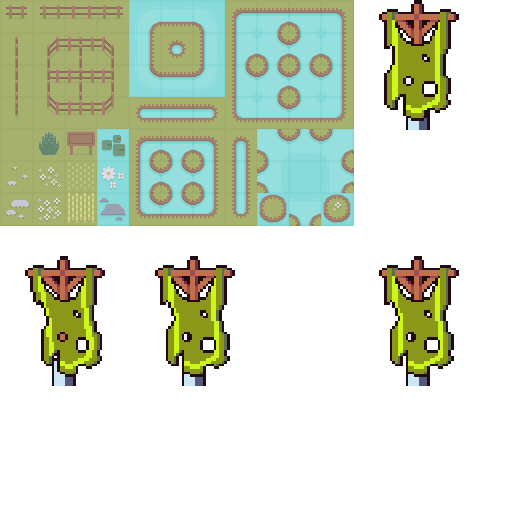
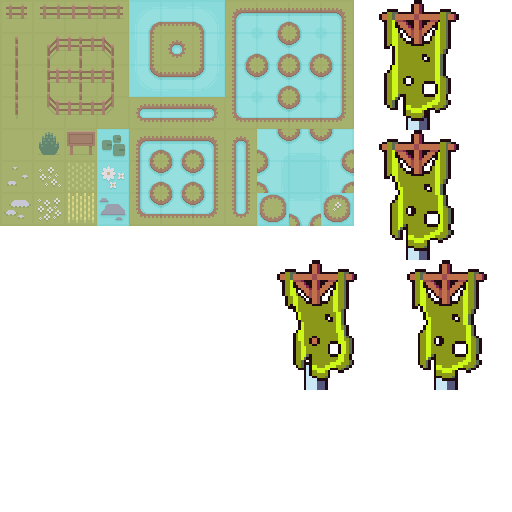
update boss move

diff --git a/scripts/c3runtime.js b/scripts/c3runtime.js
@@ -3018,6 +3018,35 @@ const map=new WeakMap;self.IBulletBehaviorInstance=class IBulletBehaviorInstance
 'use strict';{const C3=self.C3;C3.Behaviors.Bullet.Exps={Speed(){return this._GetSpeed()},Acceleration(){return this._GetAcceleration()},AngleOfMotion(){return C3.toDegrees(this._GetAngleOfMotion())},DistanceTravelled(){return this._GetDistanceTravelled()},Gravity(){return this._GetGravity()}}};
 
 
+'use strict';{const C3=self.C3;C3.Behaviors.LOS=class LOSBehavior extends C3.SDKBehaviorBase{constructor(opts){super(opts)}Release(){super.Release()}}};
+
+
+'use strict';{const C3=self.C3;C3.Behaviors.LOS.Type=class LOSType extends C3.SDKBehaviorTypeBase{constructor(behaviorType){super(behaviorType);this._obstacleTypes=[]}Release(){C3.clearArray(this._obstacleTypes);super.Release()}OnCreate(){}GetObstacleTypes(){return this._obstacleTypes}FindLOSBehavior(inst){const myType=this.GetBehaviorType();for(const behInst of inst.GetBehaviorInstances())if(behInst.GetBehaviorType()===myType)return behInst.GetSdkInstance();return null}}};
+
+
+'use strict';{const C3=self.C3;const OBSTACLE_MODE=0;const RANGE=1;const CONE=2;const USE_COLLISION_CELLS=3;const MODE_SOLID=0;const collisionCandidates=[];C3.Behaviors.LOS.Instance=class LOSInstance extends C3.SDKBehaviorInstanceBase{constructor(behInst,properties){super(behInst);this._obstacleMode=0;this._range=1E4;this._cone=C3.toRadians(360);this._useCollisionCells=true;this._ray=new C3.Ray;if(properties){this._obstacleMode=properties[OBSTACLE_MODE];this._range=properties[RANGE];this._cone=C3.toRadians(properties[CONE]);
+this._useCollisionCells=properties[USE_COLLISION_CELLS]}}Release(){super.Release()}SaveToJson(){return{"r":this._range,"c":this._cone,"om":this._obstacleMode,"ucc":this._useCollisionCells,"t":this.GetSdkType().GetObstacleTypes().map(t=>t.GetSID())}}LoadFromJson(o){this._range=o["r"];this._cone=o["c"];this._obstacleMode=o["om"]||0;this._useCollisionCells=!!o["ucc"];const obstacleTypes=this.GetSdkType().GetObstacleTypes();C3.clearArray(obstacleTypes);for(const sid of o["t"]){const objectClass=this._runtime.GetObjectClassBySID(sid);
+if(objectClass)obstacleTypes.push(objectClass)}}HasLOSToInstance(inst,imgPt){const uid=inst.GetUID();const [x,y]=inst.GetImagePoint(imgPt);const hasLOS=this.HasLOSTo(x,y);return hasLOS||this._ray.hitUid===uid}HasLOSTo(x,y){const wi=this.GetWorldInfo();let angle=wi.GetAngle();if(wi.GetWidth()<0)angle+=Math.PI;return this.HasLOSBetweenPositions(wi.GetX(),wi.GetY(),angle,x,y)}HasLOSBetweenPositions(fromX,fromY,angle,toX,toY){const range=this._range;if(C3.distanceSquared(fromX,fromY,toX,toY)>range*range)return false;
+const a=C3.angleTo(fromX,fromY,toX,toY);if(C3.angleDiff(angle,a)>this._cone/2)return false;const ray=this.CastRay(fromX,fromY,toX,toY,this._useCollisionCells);return!ray.DidCollide()}_GetCollisionCandidates(ray,useCollisionCells){if(useCollisionCells){const layer=this.GetWorldInfo().GetLayer();const collisionEngine=this._runtime.GetCollisionEngine();if(this._obstacleMode===MODE_SOLID)collisionEngine.GetSolidCollisionCandidates(layer,ray.rect,collisionCandidates);else collisionEngine.GetObjectClassesCollisionCandidates(layer,
+this._GetObstacleTypes(),ray.rect,collisionCandidates);return collisionCandidates}else if(this._obstacleMode===MODE_SOLID){const solidBehavior=this._runtime.GetSolidBehavior();if(solidBehavior)return solidBehavior.GetInstances();else return collisionCandidates}else{for(const objectClass of this._GetObstacleTypes())C3.appendArray(collisionCandidates,objectClass.GetInstances());return collisionCandidates}}_GetObstacleTypes(){return this.GetSdkType().GetObstacleTypes()}CastRay(fromX,fromY,toX,toY,useCollisionCells){const ray=
+this._ray.Set(fromX,fromY,toX,toY);const candidates=this._GetCollisionCandidates(ray,useCollisionCells);const collisionEngine=this._runtime.GetCollisionEngine();const isSolidMode=this._obstacleMode===MODE_SOLID;const selfInstance=this._inst;for(let i=0,len=candidates.length;i<len;++i){const rinst=candidates[i];if(rinst===selfInstance)continue;if(!isSolidMode||collisionEngine.IsSolidCollisionAllowed(rinst,selfInstance))collisionEngine.TestRayIntersectsInstance(rinst,ray)}ray.Complete();C3.clearArray(collisionCandidates);
+return ray}GetPropertyValueByIndex(index){switch(index){case OBSTACLE_MODE:return this._obstacleMode;case RANGE:return this._range;case CONE:return C3.toDegrees(this._cone);case USE_COLLISION_CELLS:return this._useCollisionCells}}SetPropertyValueByIndex(index,value){switch(index){case OBSTACLE_MODE:this._obstacleMode=value;break;case RANGE:this._range=value;break;case CONE:this._cone=C3.toRadians(value);break;case USE_COLLISION_CELLS:this._useCollisionCells=!!value;break}}GetDebuggerProperties(){const prefix=
+"behaviors.los.properties";return[{title:"$"+this.GetBehaviorType().GetName(),properties:[{name:prefix+".range.name",value:this._range,onedit:v=>this._range=v},{name:prefix+".cone-of-view.name",value:C3.toDegrees(this._cone),onedit:v=>this._cone=C3.toRadians(v)}]}]}}};
+
+
+'use strict';{const C3=self.C3;const lToPick=new Set;const rToPick=new Set;C3.Behaviors.LOS.Cnds={HasLOSToPosition(x,y){return this.HasLOSTo(x,y)},RayIntersected(){return this._ray.DidCollide()},HasLOSBetweenPositions(fromX,fromY,fromAngle,toX,toY){return this.HasLOSBetweenPositions(fromX,fromY,C3.toRadians(fromAngle),toX,toY)},HasLOSToObject(objectClass,imgPt){if(!objectClass)return false;const currentCondition=this._runtime.GetCurrentCondition();const isOrBlock=currentCondition.GetEventBlock().IsOrBlock();
+const runtime=currentCondition.GetRuntime();const lsol=currentCondition.GetObjectClass().GetCurrentSol();const rsol=objectClass.GetCurrentSol();let linstances=lsol.GetInstances();let rinstances=rsol.GetInstances();if(lsol.IsSelectAll())C3.clearArray(lsol._GetOwnElseInstances());else if(isOrBlock)if(runtime.IsCurrentConditionFirst()&&!lsol._GetOwnElseInstances().length&&lsol._GetOwnInstances().length)linstances=lsol._GetOwnInstances();else linstances=lsol._GetOwnElseInstances();if(rsol.IsSelectAll())C3.clearArray(rsol._GetOwnElseInstances());
+else if(isOrBlock)if(runtime.IsCurrentConditionFirst()&&!rsol._GetOwnElseInstances().length&&rsol._GetOwnInstances().length)rinstances=rsol._GetOwnInstances();else rinstances=rsol._GetOwnElseInstances();const isInverted=currentCondition.IsInverted();const sdkType=this.GetSdkType();for(const linst of linstances){let pick=false;const losBeh=sdkType.FindLOSBehavior(linst);if(rinstances.length===0){if(isInverted)pick=true}else for(const rinst of rinstances)if(linst!==rinst&&C3.xor(losBeh.HasLOSToInstance(rinst,
+imgPt),isInverted)){pick=true;rToPick.add(rinst)}if(pick)lToPick.add(linst)}if(isOrBlock){if(linstances===lsol._GetOwnElseInstances())lsol.TransferElseInstancesToOwn(lToPick);else{lsol.AddElseInstances(lToPick,linstances);lsol.SetSetPicked(lToPick)}if(rinstances===rsol._GetOwnElseInstances())rsol.TransferElseInstancesToOwn(rToPick);else{rsol.AddElseInstances(rToPick,rinstances);rsol.SetSetPicked(rToPick)}}else{lsol.SetSetPicked(lToPick);rsol.SetSetPicked(rToPick)}lToPick.clear();rToPick.clear();return lsol.HasAnyInstances()}}};
+
+
+'use strict';{const C3=self.C3;C3.Behaviors.LOS.Acts={SetRange(r){this._range=r},SetCone(c){this._cone=C3.toRadians(c)},CastRay(fromX,fromY,toX,toY,useCollisionCells){this.CastRay(fromX,fromY,toX,toY,useCollisionCells)},AddObstacle(objectClass){const obstacleTypes=this.GetSdkType().GetObstacleTypes();if(obstacleTypes.includes(objectClass))return;for(const t of obstacleTypes)if(t.IsFamily()&&t.FamilyHasMember(objectClass))return;obstacleTypes.push(objectClass)},ClearObstacles(){C3.clearArray(this.GetSdkType().GetObstacleTypes())}}};
+
+
+'use strict';{const C3=self.C3;C3.Behaviors.LOS.Exps={Range(){return this._range},ConeOfView(){return C3.toDegrees(this._cone)},HitX(){const ray=this._ray;return ray.DidCollide()?ray.hitX:0},HitY(){const ray=this._ray;return ray.DidCollide()?ray.hitY:0},HitDistance(){const ray=this._ray;return ray.DidCollide()?ray.distance:0},HitUID(){const ray=this._ray;return ray.DidCollide()?ray.hitUid:-1},NormalX(length){const ray=this._ray;return ray.DidCollide()?ray.hitX+length*ray.normalX:0},NormalY(length){const ray=
+this._ray;return ray.DidCollide()?ray.hitY+length*ray.normalY:0},NormalAngle(){const ray=this._ray;return ray.DidCollide()?C3.toDegrees(ray.hitNormal):0},ReflectionX(length){const ray=this._ray;return ray.DidCollide()?ray.hitX+length*ray.reflectionX:0},ReflectionY(length){const ray=this._ray;return ray.DidCollide()?ray.hitY+length*ray.reflectionY:0},ReflectionAngle(){const ray=this._ray;return ray.DidCollide()?C3.toDegrees(Math.atan2(ray.reflectionY,ray.reflectionX)):0}}};
+
+
 
 {
 	const C3 = self.C3;
@@ -3033,16 +3062,29 @@ const map=new WeakMap;self.IBulletBehaviorInstance=class IBulletBehaviorInstance
 		C3.Plugins.progressbar,
 		C3.Behaviors.Bullet,
 		C3.Plugins.Mouse,
+		C3.Behaviors.LOS,
 		C3.Plugins.Audio,
 		C3.Plugins.System.Cnds.IsGroupActive,
 		C3.Plugins.Keyboard.Cnds.IsKeyDown,
 		C3.Behaviors.Platform.Acts.SimulateControl,
+		C3.Behaviors.Platform.Acts.SetDoubleJumpEnabled,
 		C3.Plugins.Sprite.Acts.SetMirrored,
 		C3.Plugins.Keyboard.Cnds.IsLeftRightKeyDown,
 		C3.Plugins.Sprite.Acts.SetX,
 		C3.Plugins.Sprite.Exps.X,
 		C3.Plugins.Sprite.Acts.SetY,
 		C3.Plugins.Sprite.Exps.Y,
+		C3.Behaviors.LOS.Cnds.HasLOSToObject,
+		C3.Plugins.Sprite.Cnds.IsBoolInstanceVarSet,
+		C3.Plugins.Sprite.Acts.SetBoolInstanceVar,
+		C3.Behaviors.LOS.Acts.SetCone,
+		C3.Plugins.Sprite.Cnds.CompareInstanceVar,
+		C3.Plugins.Sprite.Acts.SetInstanceVar,
+		C3.Plugins.Sprite.Cnds.CompareX,
+		C3.Plugins.System.Cnds.Else,
+		C3.Plugins.Sprite.Cnds.OnAnimFinished,
+		C3.Plugins.System.Cnds.EveryTick,
+		C3.Plugins.Sprite.Acts.SetAnim,
 		C3.Plugins.Sprite.Cnds.OnCreated,
 		C3.Plugins.Sprite.Cnds.IsMirrored,
 		C3.Plugins.Sprite.Acts.SetAngle,
@@ -3052,9 +3094,8 @@ const map=new WeakMap;self.IBulletBehaviorInstance=class IBulletBehaviorInstance
 		C3.Plugins.Sprite.Acts.Spawn,
 		C3.Plugins.Sprite.Acts.SetTowardPosition,
 		C3.Plugins.Mouse.Exps.X,
-		C3.Plugins.Mouse.Exps.Y,
 		C3.Plugins.System.Cnds.OnLayoutStart,
-		C3.Plugins.Audio.Acts.Play
+		C3.Plugins.Sprite.Cnds.OnAnyAnimFinished
 		];
 	};
 	self.C3_JsPropNameTable = [
@@ -3073,6 +3114,10 @@ const map=new WeakMap;self.IBulletBehaviorInstance=class IBulletBehaviorInstance
 		{Bullet: 0},
 		{player_bullet: 0},
 		{Mouse: 0},
+		{active: 0},
+		{state: 0},
+		{dist: 0},
+		{LineOfSight: 0},
 		{Boss: 0},
 		{ProgressBar: 0},
 		{TiledBackground7: 0},
@@ -3092,7 +3137,9 @@ const map=new WeakMap;self.IBulletBehaviorInstance=class IBulletBehaviorInstance
 		{TiledBackground18: 0},
 		{TiledBackground19: 0},
 		{flag: 0},
-		{Audio: 0}
+		{Audio: 0},
+		{Sprite: 0},
+		{TiledBackground20: 0}
 	];
 }
 
@@ -3205,16 +3252,31 @@ const map=new WeakMap;self.IBulletBehaviorInstance=class IBulletBehaviorInstance
 			return () => n0.ExpObject();
 		},
 		() => "Boss",
+		() => 0,
+		() => 360,
+		() => "atk",
+		() => "run",
+		() => "idle",
+		() => 32,
+		() => "atk1",
+		p => {
+			const n0 = p._GetNode(0);
+			const n1 = p._GetNode(1);
+			const n2 = p._GetNode(2);
+			const n3 = p._GetNode(3);
+			return () => C3.distanceTo(n0.ExpObject(), n1.ExpObject(), n2.ExpObject(), n3.ExpObject());
+		},
+		p => {
+			const n0 = p._GetNode(0);
+			return () => n0.ExpInstVar();
+		},
 		() => "Attack & Bullet",
 		() => 180,
-		() => 0,
 		p => {
 			const f0 = p._GetNode(0).GetBoundMethod();
 			return () => f0();
 		},
-		() => "Character",
-		() => 10,
-		() => ""
+		() => "Character"
 	];
 }
 
